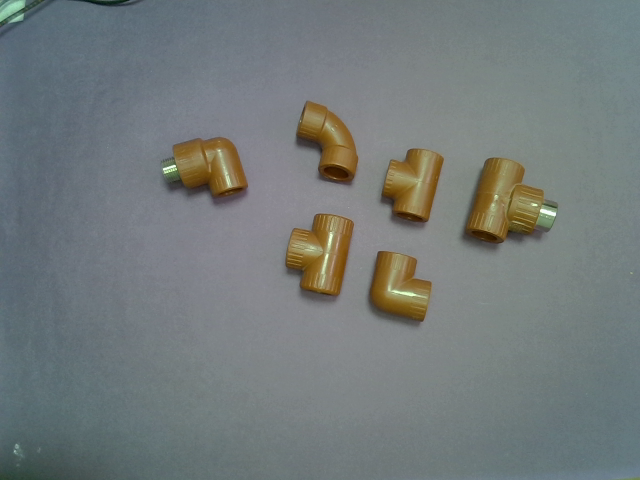
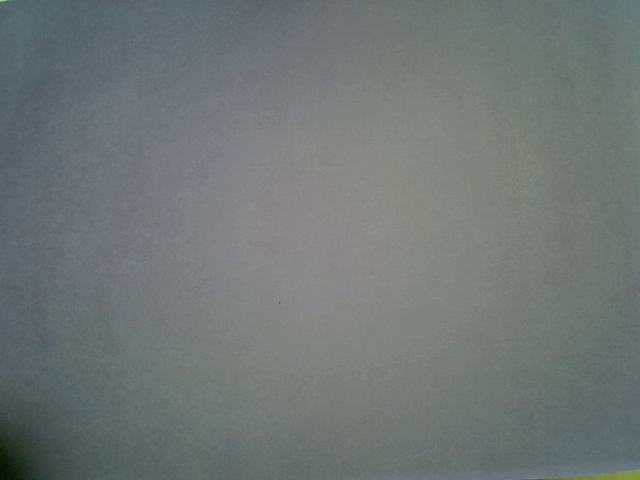
varios

diff --git a/src/classifier.py b/src/classifier.py
@@ -1,0 +1,237 @@
+"""
+Interfaz gráfica idéntica al diseño de presentación.
+Incluye esquinas redondeadas en el contenedor de video, recuadro de conteo y botones.
+"""
+
+import os
+import sys
+import tkinter as tk
+from PIL import Image, ImageTk, ImageDraw
+import cv2
+
+# Anclar la raíz del proyecto al PATH
+BASE_DIR = os.path.abspath(os.path.join(os.path.dirname(__file__), ".."))
+SRC_DIR = os.path.join(BASE_DIR, "src")
+if SRC_DIR not in sys.path:
+    sys.path.insert(0, SRC_DIR)
+
+from capture.camera import Camera, load_background, save_background
+from pipeline import InventoryPipeline
+
+BACKGROUND_PATH = os.path.join(BASE_DIR, "data", "background.png")
+
+# Parámetros de segmentación
+BG_THRESHOLD = 25
+MIN_AREA = 400
+MAX_SINGLE_AREA = 10000
+OPEN_KSIZE = 3
+CLOSE_KSIZE = 11
+ROI = (1, 1, 640, 480)
+
+
+class RoundedButton(tk.Canvas):
+    """Botón estilo cápsula con bordes redondeados."""
+
+    def __init__(self, parent, text, command=None, bg_color="#1200A3", fg_color="#FFFFFF", font=("Arial", 18, "bold"), **kwargs):
+        super().__init__(parent, bg="#FFFFFF", highlightthickness=0, **kwargs)
+        self.command = command
+        self.bg_color = bg_color
+        self.fg_color = fg_color
+        self.text = text
+        self.font = font
+
+        self.bind("<Configure>", self._draw)
+        self.bind("<Button-1>", lambda e: self.command() if self.command else None)
+
+    def _draw(self, event=None):
+        self.delete("all")
+        w, h = self.winfo_width(), self.winfo_height()
+        r = h // 2
+
+        self.create_arc((0, 0, h, h), start=90, extent=180, fill=self.bg_color, outline=self.bg_color)
+        self.create_arc((w - h, 0, w, h), start=-90, extent=180, fill=self.bg_color, outline=self.bg_color)
+        self.create_rectangle((r, 0, w - r, h), fill=self.bg_color, outline=self.bg_color)
+        self.create_text(w // 2, h // 2, text=self.text, fill=self.fg_color, font=self.font)
+
+
+def add_corners_to_image(pil_img, radius=25):
+    """Aplica un recorte de esquinas redondeadas sobre una imagen PIL."""
+    mask = Image.new("L", pil_img.size, 0)
+    draw = ImageDraw.Draw(mask)
+    draw.rounded_rectangle((0, 0, pil_img.size[0], pil_img.size[1]), radius=radius, fill=255)
+    
+    output = Image.new("RGBA", pil_img.size, (255, 255, 255, 0))
+    output.paste(pil_img, (0, 0), mask)
+    return output
+
+
+class AppUI:
+
+    def __init__(self, root):
+        self.root = root
+        self.root.title("Sistema de Conteo e Inventario CV")
+        self.root.geometry("1280x720")
+        self.root.configure(bg="#FFFFFF")
+
+        # Inicialización de cámara y pipeline
+        self.camera = Camera(index=1, width=640, height=480)
+        self.pipeline = InventoryPipeline(
+            bg_threshold=BG_THRESHOLD,
+            min_area=MIN_AREA,
+            max_single_area=MAX_SINGLE_AREA,
+            roi=ROI,
+        )
+        self.pipeline.contour_detector.update_kernels(OPEN_KSIZE, CLOSE_KSIZE)
+
+        existing_bg = load_background(BACKGROUND_PATH)
+        if existing_bg is not None:
+            self.pipeline.set_background(existing_bg)
+
+        self._build_gui()
+        self.root.bind("<b>", self.capture_background)
+        self.update_video()
+
+    def _build_gui(self):
+        self.root.columnconfigure(0, weight=3)
+        self.root.columnconfigure(1, weight=2)
+        self.root.rowconfigure(0, weight=1)
+
+        # ---------------------------------------------------------------------
+        # SECCIÓN IZQUIERDA: CONTENEDOR DE VIDEO CON ESQUINAS REDONDEADAS
+        # ---------------------------------------------------------------------
+        self.left_frame = tk.Frame(self.root, bg="#FFFFFF")
+        self.left_frame.grid(row=0, column=0, sticky="nsew", padx=30, pady=30)
+
+        self.video_container = tk.Frame(self.left_frame, bg="#FFFFFF")
+        self.video_container.pack(fill="both", expand=True)
+
+        self.video_label = tk.Label(self.video_container, bg="#FFFFFF")
+        self.video_label.pack(fill="both", expand=True)
+
+        # ---------------------------------------------------------------------
+        # SECCIÓN DERECHA: PANEL DE CONTROL
+        # ---------------------------------------------------------------------
+        self.right_frame = tk.Frame(self.root, bg="#FFFFFF")
+        self.right_frame.grid(row=0, column=1, sticky="nsew", padx=20, pady=30)
+
+        # Título "CANTIDAD"
+        self.lbl_cantidad = tk.Label(
+            self.right_frame,
+            text="CANTIDAD",
+            font=("Montserrat", 38, "bold"),
+            fg="#F16522",
+            bg="#FFFFFF"
+        )
+        self.lbl_cantidad.pack(anchor="center", pady=(10, 20))
+
+        # Recuadro con el contador
+        self.rect_frame = tk.Frame(
+            self.right_frame,
+            bg="#FFFFFF",
+            bd=2,
+            relief="solid",
+            width=360,
+            height=180
+        )
+        self.rect_frame.pack(anchor="center", pady=(0, 40))
+        self.rect_frame.pack_propagate(False)
+
+        self.lbl_counter = tk.Label(
+            self.rect_frame,
+            text="0",
+            font=("Open Sans", 72, "bold"),
+            fg="#000000",
+            bg="#FFFFFF"
+        )
+        self.lbl_counter.pack(expand=True)
+
+        # Botones inferiores redondeados
+        self.btn_salida = RoundedButton(
+            self.right_frame,
+            text="Salida",
+            command=self.on_exit,
+            width=400,
+            height=75
+        )
+        self.btn_salida.pack(anchor="center", pady=10)
+
+        self.btn_config = RoundedButton(
+            self.right_frame,
+            text="Configuración",
+            command=self.on_config,
+            width=400,
+            height=75
+        )
+        self.btn_config.pack(anchor="center", pady=10)
+
+        self.btn_reset = RoundedButton(
+            self.right_frame,
+            text="Reset",
+            command=self.on_reset,
+            width=400,
+            height=75
+        )
+        self.btn_reset.pack(anchor="center", pady=10)
+
+    def capture_background(self, event=None):
+        frame = self.camera.read()
+        if frame is not None:
+            self.pipeline.set_background(frame)
+            save_background(BACKGROUND_PATH, frame)
+
+    def update_video(self):
+        frame = self.camera.read()
+
+        if frame is not None:
+            if self.pipeline.has_background():
+                mask, annotated, detections = self.pipeline.process(frame)
+                num_objetos = len(detections) if detections is not None else 0
+                self.lbl_counter.config(text=str(num_objetos))
+                display_frame = annotated
+            else:
+                self.lbl_counter.config(text="--")
+                cv2.putText(
+                    frame, "SIN FONDO - Presiona 'b' o RESET",
+                    (10, 30), cv2.FONT_HERSHEY_SIMPLEX, 0.7, (0, 0, 255), 2
+                )
+                display_frame = frame
+
+            # Redimensionar y aplicar borde suave redondeado al video
+            vw = self.video_container.winfo_width()
+            vh = self.video_container.winfo_height()
+
+            if vw > 10 and vh > 10:
+                rgb_frame = cv2.cvtColor(display_frame, cv2.COLOR_BGR2RGB)
+                resized_frame = cv2.resize(rgb_frame, (vw, vh))
+                
+                # Convertir a PIL y redondear bordes con radio 25
+                pil_img = Image.fromarray(resized_frame)
+                rounded_img = add_corners_to_image(pil_img, radius=25)
+                
+                imgtk = ImageTk.PhotoImage(image=rounded_img)
+                self.video_label.imgtk = imgtk
+                self.video_label.configure(image=imgtk)
+
+        self.root.after(15, self.update_video)
+
+    def on_exit(self):
+        if hasattr(self.camera, 'release'):
+            self.camera.release()
+        self.root.destroy()
+
+    def on_config(self):
+        print("[ACCION] Configuración presionado.")
+
+    def on_reset(self):
+        self.capture_background()
+
+
+def main():
+    root = tk.Tk()
+    app = AppUI(root)
+    root.protocol("WM_DELETE_WINDOW", app.on_exit)
+    root.mainloop()
+
+
+if __name__ == "__main__":
+    main()

diff --git a/src/pipeline.py b/src/pipeline.py
@@ -1,57 +1,39 @@
-"""
-Pipeline con renderizado de siluetas/máscaras exactas y parámetros actualizables.
-"""
-
+import torch
+import torch.nn as nn
+import cv2
 import numpy as np
-import supervision as sv
-
-from detection.background_subtractor import BackgroundSubtractor
-from detection.contour_detector import ContourDetector
+from torchvision import models, transforms
 
 
-class InventoryPipeline:
-    def __init__(self, bg_threshold: int = 25, min_area: int = 400, max_single_area: int = 8000,
-                 roi: tuple[int, int, int, int] | None = None):
-        self.bg_subtractor = BackgroundSubtractor(threshold=bg_threshold)
-        self.contour_detector = ContourDetector(min_area=min_area, max_single_area=max_single_area, roi=roi)
+class PieceClassifier:
+    def __init__(self, model_path="data/model.pth", device="cpu"):
+        self.device = torch.device(device)
+        checkpoint = torch.load(model_path, map_location=self.device)
 
-        # Anotadores visuales
-        self.polygon_annotator = sv.PolygonAnnotator(
-            color_lookup=sv.ColorLookup.INDEX,
-            thickness=2
+        self.classes = checkpoint["classes"]
+        self.img_size = checkpoint.get("img_size", 128)
+
+        self.model = models.mobilenet_v3_small(weights=None)
+        self.model.classifier[3] = nn.Linear(
+            self.model.classifier[3].in_features, len(self.classes)
         )
-        self.mask_annotator = sv.MaskAnnotator(
-            color_lookup=sv.ColorLookup.INDEX,
-            opacity=0.4
-        )
-        self.label_annotator = sv.LabelAnnotator(
-            color_lookup=sv.ColorLookup.INDEX,
-            text_position=sv.Position.TOP_CENTER
-        )
+        self.model.load_state_dict(checkpoint["state_dict"])
+        self.model.to(self.device)
+        self.model.eval()
 
-    def update_parameters(self, bg_thresh: int, min_area: int, max_single_area: int, open_k: int, close_k: int) -> None:
-        """Aplica los cambios de las trackbars en tiempo real."""
-        self.bg_subtractor.threshold = bg_thresh
-        self.contour_detector.min_area = min_area
-        self.contour_detector.max_single_area = max_single_area
-        self.contour_detector.update_kernels(open_k, close_k)
+        self.transform = transforms.Compose([
+            transforms.ToPILImage(),
+            transforms.Resize((self.img_size, self.img_size)),
+            transforms.ToTensor(),
+            transforms.Normalize([0.485, 0.456, 0.406], [0.229, 0.224, 0.225]),
+        ])
 
-    def set_background(self, frame_bgr: np.ndarray) -> None:
-        self.bg_subtractor.set_background(frame_bgr)
+    def predict(self, crop_bgr: np.ndarray) -> str:
+        crop_rgb = cv2.cvtColor(crop_bgr, cv2.COLOR_BGR2RGB)
+        tensor = self.transform(crop_rgb).unsqueeze(0).to(self.device)
 
-    def has_background(self) -> bool:
-        return self.bg_subtractor.has_background()
+        with torch.no_grad():
+            output = self.model(tensor)
+            pred_idx = output.argmax(1).item()
 
-    def process(self, frame_bgr: np.ndarray):
-        raw_mask = self.bg_subtractor.compute_mask(frame_bgr)
-        clean_mask = self.contour_detector.clean_mask(raw_mask)
-        detections = self.contour_detector.detect(clean_mask)
-
-        annotated = frame_bgr.copy()
-        if len(detections) > 0:
-            labels = [f"#{i+1}" for i in range(len(detections))]
-            annotated = self.mask_annotator.annotate(annotated, detections)
-            annotated = self.polygon_annotator.annotate(annotated, detections)
-            annotated = self.label_annotator.annotate(annotated, detections, labels=labels)
-
-        return clean_mask, annotated, detections
+        return self.classes[pred_idx]

diff --git a/src/tools/capture_dataset.py b/src/tools/capture_dataset.py
@@ -42,7 +42,7 @@ CLASES = [
 BG_THRESHOLD = 25
 MIN_AREA = 400
 MAX_SINGLE_AREA = 8000
-ROI = (23, 113, 458, 480)
+ROI = (1, 1, 640, 480)
 
 
 def count_existing_images(class_name: str) -> int:
